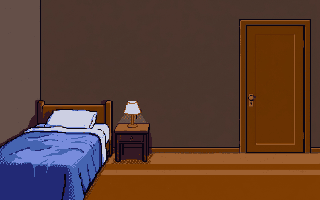
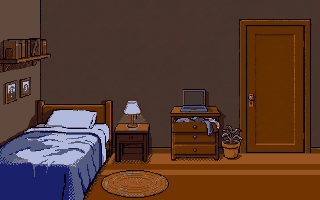
feat(intro): furnished bedroom — painted laptop taken from the dresser, real open door, positions from the round-2 hand-back
- build: D_laptop_gone and D_door_open as chained optional edits
- intro: a laptop-carrying hero takes the painted laptop (cut to the laptop-less room); other items are drawn on the bare dresser top
- provenance and docs for round 2

Claude-Session: https://claude.ai/code/session_01KRJMM4tMmN6TsQ7ggh1rTa

diff --git a/js/screens/intro.js b/js/screens/intro.js
@@ -33,7 +33,7 @@ export function preloadIntro() {
     if (!Number.isFinite(manifest.floorY)) throw new Error('intro.json: no floorY');
     const need = new Set(SHOTS.flatMap((s) => [s.image, s.alt].filter(Boolean)));
     if (manifest.images.wall_logo && manifest.logo && manifest.subtitle) need.add('wall_logo');
-    if (manifest.images.D_door_open) need.add('D_door_open');
+    for (const n of ['D_door_open', 'D_laptop_gone']) if (manifest.images[n]) need.add(n);
     const images = new Map();
     await Promise.all([...need].map((name) => new Promise((ok, fail) => {
       if (!manifest.images[name]) return fail(new Error(`intro.json: no image ${name}`));
@@ -157,6 +157,8 @@ export function createIntroScreen(game) {
     const g = ctx.ctx2d, cfg = ctx.hero;
     const standX = Number.isFinite(m.stand?.x) ? m.stand.x : m.bed.x + STAND_DX, standY = m.floorY - HERO_H;
     if (ctx.reducedMotion) {
+      const bareRoom = assets.images.get('D_laptop_gone');      // the hero already has their item
+      if (bareRoom) g.drawImage(bareRoom, 0, 0, 320, 200);
       showTitle(ctx, m, true);
       drawHero(g, cfg, 'idle', standX, standY, 1);
       heroState = { pose: 'idle', outfit: 'hoodie', x: standX, visible: true, pile: false, holding: true, doorOpen: false };
@@ -166,13 +168,19 @@ export function createIntroScreen(game) {
     const h = heroAt(t);
     const e = h.walking ? exitAt(exitPlan({ standX, doorX: m.door.x, floorY: m.floorY, doorY: Number.isFinite(m.door.y) ? m.door.y : m.floorY }), t - WALK_AT) : null;
     const pile = h.outfit === 'pj' && !!m.clothes;         // on the floor until the change puts them on the hero
-    const onDresser = !h.holding && !!m.item && !!item;    // the hero's item waits on the dresser until it is taken
+    // The room is painted with a laptop on the dresser, and again without it. A hero who carries a laptop gets
+    // the painted one until they take it; any other item is drawn on the bare dresser top instead.
+    const bareRoom = assets.images.get('D_laptop_gone');
+    const painted = !!bareRoom && cfg.hold === 'laptop';
+    const onDresser = !h.holding && !painted && !!m.item && !!item;
     const bare = h.holding ? cfg : { ...cfg, hold: 'none' };
-    if (e?.doorOpen) openDoor(g, m);
+    let plate = 'D_bedroom_vga';
+    if (bareRoom && (h.holding || !painted)) { g.drawImage(bareRoom, 0, 0, 320, 200); plate = 'D_laptop_gone'; }
+    if (e?.doorOpen) { openDoor(g, m); plate = assets.images.get('D_door_open') ? 'D_door_open' : plate; }
     showTitle(ctx, m, h.titled);
     if (pile) drawClothes(g, cfg, m.clothes.x, m.clothes.y);
     if (onDresser) for (const [dx, dy, c] of item) { g.fillStyle = c; g.fillRect(m.item.x + dx, m.item.y + dy, 1, 1); }
-    heroState = { pose: h.pose, outfit: h.outfit, x: standX, visible: h.visible, pile, holding: h.holding, doorOpen: !!e?.doorOpen };
+    heroState = { pose: h.pose, outfit: h.outfit, x: standX, visible: h.visible, pile, holding: h.holding, doorOpen: !!e?.doorOpen, plate };
     if (e) {
       if (e.visible) drawHero(g, cfg, e.pose, e.x, e.y - HERO_H, 1, { flip: e.flip });
       Object.assign(heroState, { pose: e.pose, outfit: 'hoodie', x: e.x, visible: e.visible });

diff --git a/tests/e2e/intro.test.js b/tests/e2e/intro.test.js
@@ -237,3 +237,24 @@ test('the hero stands where the manifest says', async () => {
   assert.equal((await intro(page)).hero.x, 150);
   await ctx.close();
 });
+
+test('the dresser shows the hero\'s own item: the painted laptop for a laptop, otherwise theirs on a bare top', async () => {
+  for (const [hold, before] of [['laptop', 'D_bedroom_vga'], ['duck', 'D_laptop_gone']]) {
+    const ctx = await browser.newContext({ viewport: { width: 844, height: 390 }, deviceScaleFactor: 1, hasTouch: true, isMobile: true });
+    const page = await ctx.newPage();
+    await page.goto(server.baseURL, { waitUntil: 'load' });
+    await page.waitForFunction(() => window.__oq?.ready === true);
+    await page.click('#btn-start'); await page.waitForFunction(() => document.body.dataset.screen === 'CREATOR'); await page.waitForTimeout(400);
+    await page.click('.tab[data-page="kit"]'); await page.click(`.opt[data-key="hold"][data-value="${hold}"]`);
+    await page.click('#btn-start-game'); await running(page);
+    if (!(await page.evaluate(() => !!window.__oq.intro.manifest.images.D_laptop_gone))) { await ctx.close(); return; }   // placeholder art has no such still
+    for (let i = 0; i < 8; i++) { await page.waitForTimeout(300); await tapScene(page); }
+    await page.waitForFunction(() => window.__oq.intro.hero?.pose === 'situp');
+    assert.equal((await intro(page)).hero.plate, before, hold);
+    await page.waitForFunction(() => window.__oq.intro.hero?.holding === true, null, { timeout: 6000 });
+    assert.equal((await intro(page)).hero.plate, 'D_laptop_gone', hold);
+    await page.waitForFunction(() => window.__oq.intro.hero?.doorOpen === true, null, { timeout: 6000 });
+    assert.equal((await intro(page)).hero.plate, 'D_door_open', hold);
+    await ctx.close();
+  }
+});

diff --git a/index.html b/index.html
@@ -7,7 +7,7 @@
 <title>Observability Quest</title>
 <meta name="description" content="A Sierra-style adventure through Honeycomb customer stories. Create your hero, click your way through the night shift, claim a prize at the booth.">
 <link rel="icon" href="assets/hc_logomark.png">
-<link rel="stylesheet" href="css/game.css?v=6">
+<link rel="stylesheet" href="css/game.css?v=7">
 </head>
 <body data-screen="LOADING">
 <div id="statusbar" aria-live="polite"><span id="sb-title">Observability Quest</span><span id="sb-score">Score: 0 of 300</span></div>
@@ -23,6 +23,6 @@
   <div class="phone" aria-hidden="true"></div>
   <div>Turn your phone sideways to play</div>
 </div>
-<script type="module" src="js/game.js?v=6"></script>
+<script type="module" src="js/game.js?v=7"></script>
 </body>
 </html>

diff --git a/tools/tests/test_build_intro.py b/tools/tests/test_build_intro.py
@@ -269,3 +269,23 @@ def test_manifest_places_the_item_on_the_dresser(tmp_path):
     assert set(m['item']) == {'x', 'y'}
     src = tmp_path / 'src'; os.makedirs(src); json.dump({'item': {'x': 190, 'y': 120}}, open(src / 'intro.overrides.json', 'w'))
     assert bi.build(str(src), str(tmp_path / 'out'), placeholders=True)['item'] == {'x': 190, 'y': 120}
+
+
+# ---- bedroom round 2: the laptop is painted on the dresser; taking it and opening the door are chained edits ----
+def test_laptop_gone_and_door_open_chain(tmp_path):
+    src = _real_src(tmp_path); out = str(tmp_path / 'out')
+    base = np.asarray(Image.open(src / 'D_bedroom_vga.png').convert('RGB')).copy()
+    base[160:200, 360:420] = (200, 200, 210)                            # a laptop on the dresser
+    Image.fromarray(base, 'RGB').save(src / 'D_bedroom_vga.png')
+    gone = base.copy(); gone[160:200, 360:420] = (90, 60, 30)           # ...taken
+    Image.fromarray(gone, 'RGB').save(src / 'D_laptop_gone.png')
+    door = gone.copy(); door[100:300, 500:600] = (4, 4, 10)             # the door open, built on the laptop-less room
+    Image.fromarray(door, 'RGB').save(src / 'D_door_open.png')
+    m = bi.build(str(src), out)
+    assert {'D_laptop_gone', 'D_door_open'} <= set(m['images'])
+    g, d, b = _px(out, m, 'D_laptop_gone'), _px(out, m, 'D_door_open'), _px(out, m, 'D_bedroom_vga')
+    ys, xs = np.nonzero((g != b).any(axis=2)); assert xs.min() >= 179 and xs.max() <= 210 and ys.min() >= 79 and ys.max() <= 100
+    ys, xs = np.nonzero((d != g).any(axis=2)); assert xs.min() >= 249 and xs.max() <= 300      # against the laptop-less room: only the door
+    os.remove(src / 'D_laptop_gone.png')                                # without it, the door edit is cut against the bedroom itself
+    m = bi.build(str(src), out)
+    assert 'D_laptop_gone' not in m['images'] and 'D_door_open' in m['images']

diff --git a/tools/build_intro.py b/tools/build_intro.py
@@ -15,7 +15,9 @@ PLATES = ['A_room_dark', 'B_nightstand', 'C_face_asleep', 'D_bedroom_vga']
 EDITS = {'B_arm': 'B_nightstand', 'B_lamp': 'B_nightstand', 'C_eye_crack': 'C_face_asleep',
          'C_awake': 'C_face_asleep', 'C_misery': 'C_awake'}                 # edit -> the still it is cut against
 SOURCES = PLATES + list(EDITS)
-OPTIONAL = {'D_door_open': 'D_bedroom_vga'}                            # extra edits: built when delivered, never a placeholder
+# extra edits, in build order: built when delivered, never a placeholder. Each is cut against the first of its
+# candidate plates that exists (the door opens on the laptop-less room when there is one).
+OPTIONAL = {'D_laptop_gone': ['D_bedroom_vga'], 'D_door_open': ['D_laptop_gone', 'D_bedroom_vga']}
 DERIVED = ['C_awake_lit', 'B_lamp_lit']
 MAX_DRIFT = 0.5                     # an edit may remove an object and add a hand; past half the frame it is another picture
 COLOURS = 32
@@ -300,9 +302,10 @@ def build(src, out, placeholders=False, logo_src=LOGO_SRC):
         if n in fake:                               # stand-in drawn on the finished still it is cut against
             done[n] = placeholder(n, base=done[plate]); refs[n] = placeholder(n, base=refs[plate])
         else: make_edit(n, plate)
-    for n, plate in OPTIONAL.items():
+    for n, plates in OPTIONAL.items():
         path = os.path.join(src, f'{n}.png')
-        if placeholders or plate in fake or not os.path.exists(path):
+        plate = next((p for p in plates if p in done and p not in fake), None)
+        if placeholders or plate is None or not os.path.exists(path):
             if os.path.exists(os.path.join(out, f'{n}.png')): os.remove(os.path.join(out, f'{n}.png'))
             continue
         im = Image.open(path)

diff --git a/ASSET_PROMPTS.md b/ASSET_PROMPTS.md
@@ -168,5 +168,17 @@ Plates approved by Rick 2026-11-11; the five edits are awaiting his review.
 `C_awake_lit` and `B_lamp_lit` are derived by the build (palette lifts), not generated. The LCD text is drawn by the game. The wall title
 is the app's Observability Quest wordmark, cut from `assets/title_screen.png` by the build (`wall_logo.png`).
 
-Round 2 (pending): a furnished `D_bedroom_vga` made as an edit of the round-1 plate, and `D_door_open`, an edit of that —
-`briefs/intro-bedroom-round2-agent-brief.md`. The clothes on the floor and the Honeycomb mark on the hoodie are drawn by the game.
+### Bedroom round 2 (2026-11-11)
+
+Gemini API `gemini-3.1-flash-image`, 3:2, 1K, on Rick's personal account, following `briefs/intro-bedroom-round2-agent-brief.md`
+plus Rick's direction in the session. Every frame is an edit of the one before it; exact text in `scratch/intro_gen/gen.py`
+(`FULL` entries `D_bedroom_vga`, `D_bedroom_r3`, `D_laptop_gone`, `D_door_open`). Earlier versions are in `scratch/intro_gen/raw/tries/`.
+
+| File | Built on | Tries → kept | Notes |
+|---|---|---|---|
+| `D_bedroom_vga` (final) | round-2 furnished room, itself an edit of the round-1 plate | 5 → `D_bedroom_r3_t3` | Wall shelf and two pictures on the left side wall; dresser one drawer taller, top drawer open with clothes spilling out, an open laptop on top; rug and plant. Title area is now 188×89. Pictures sit just below the shelf. |
+| `D_laptop_gone` | final `D_bedroom_vga` | 3 → t1 | Only the laptop removed (a faint mark remains on the wall above the dresser). |
+| `D_door_open` | `D_laptop_gone` | 3 → t9 | Door swung into the room, dark hallway. The leaf reaches the floor at y 171. |
+
+Not yet signed off by Rick. The clothes on the floor, the Honeycomb mark on the hoodie, and any carried item other than
+a laptop are drawn by the game.

diff --git a/README.md b/README.md
@@ -69,8 +69,10 @@ The title on the bedroom wall is the app's own **Observability Quest wordmark**,
 `assets/title_screen.png` (letters only — no starscape, glow, rule or blue panel; the build adds the **I** after QUEST from the wordmark's own letter I), sized to the `wall` rectangle, with
 the subtitle lettered under it. Replace that picture and rebuild to change the logo.
 
-An optional tenth still, `D_door_open.png` (an edit of the bedroom with the door open), is used for the hero's exit
-when present; without it the game darkens the `doorway` rectangle. Brief: `briefs/intro-bedroom-round2-agent-brief.md`.
+Two optional stills extend the bedroom: `D_laptop_gone.png` (the bedroom without the laptop on the dresser) and
+`D_door_open.png` (the door open, cut against `D_laptop_gone` when that exists). A hero who carries a laptop sees the
+painted one until they take it; any other item is drawn on the bare dresser top at `item`. Without `D_door_open` the
+game darkens the `doorway` rectangle. Brief: `briefs/intro-bedroom-round2-agent-brief.md`.
 
 Shot order and timings: `js/intro/timeline.js`. LCD copy lives there too.
 

diff --git a/docs/backlog.md b/docs/backlog.md
@@ -84,4 +84,4 @@ block on. Test the restyle under `.hs-form` on a real phone.
 - The 4×4 chest mark disappears into same-coloured hoodies (honey on honey, blue on teal, green on lime) — a pixel of outline or a light patch behind it would fix that.
 - Character sheet scales up on big windows now; the thumb-column buttons and the name sheet do not yet.
 - Title screen is still a text placeholder; use the wordmark (and title art) there in the title sub-project.
-- Until the furnished bedroom plate lands, the hero's item waits on the nightstand (`item` in the overrides) — move it to the dresser top with the new measurements.
+- Furnished bedroom, `D_laptop_gone` and `D_door_open` landed 2026-11-11 and are placed from the hand-back's measurements; awaiting Rick's sign-off. `D_laptop_gone` keeps a faint mark on the wall above the dresser — redo that edit if it shows on a phone.
